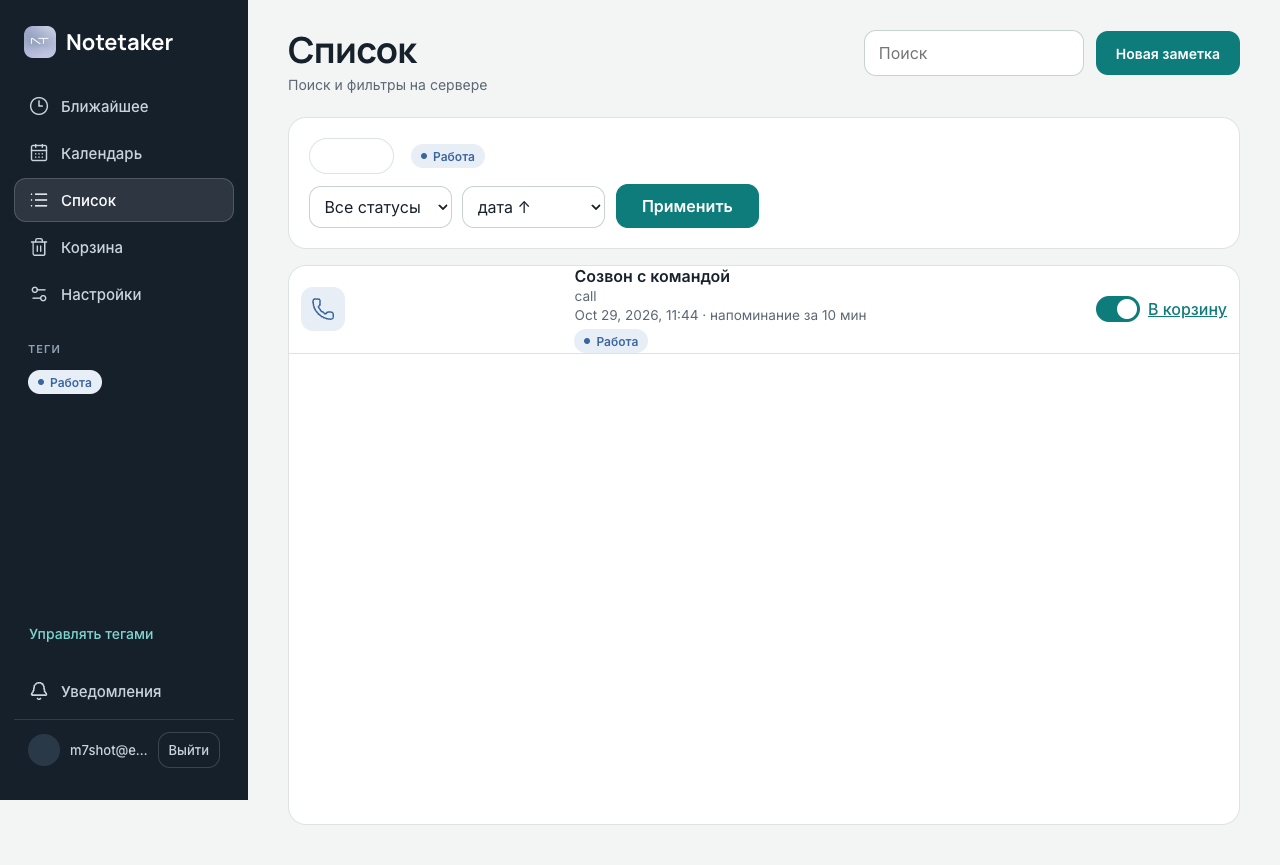
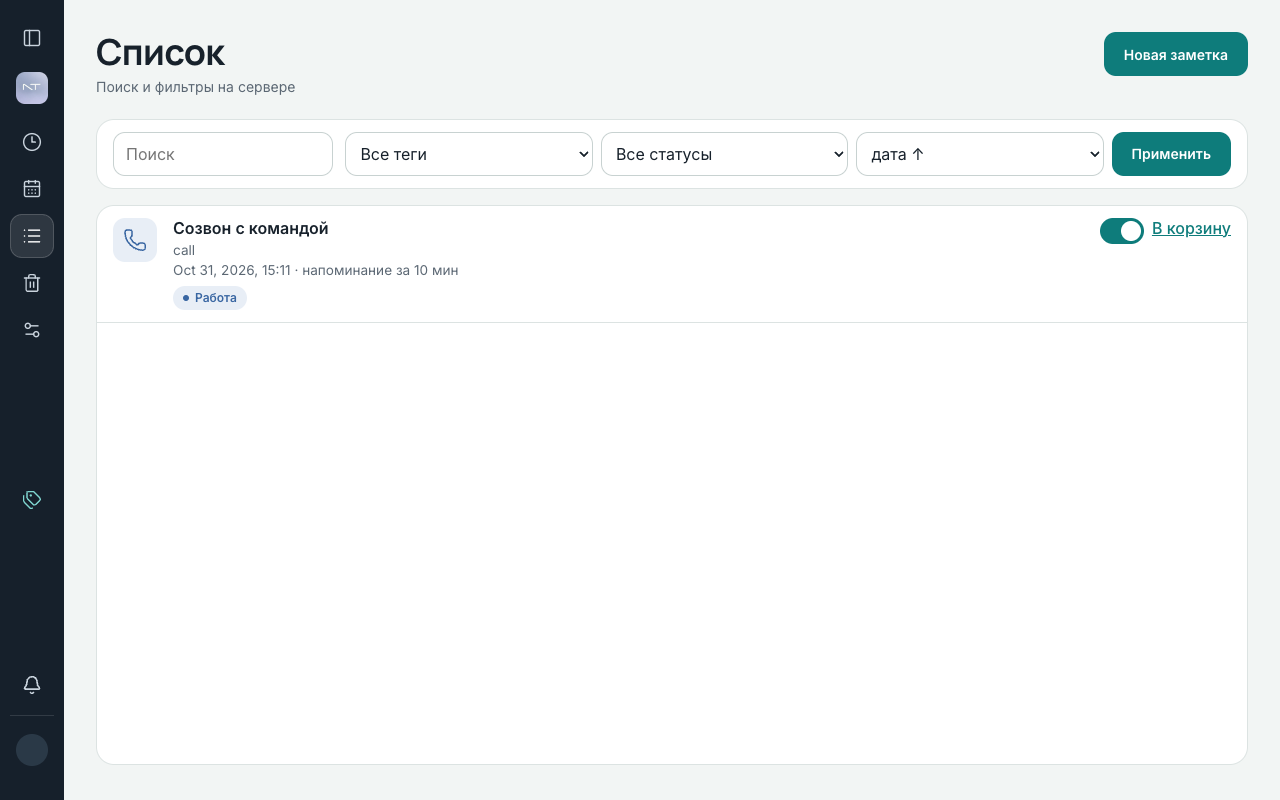
M8.2: FRONTEND §5–§6, e2e layout, скрины 1440/1024 и STATUS

diff --git a/web/e2e/m8_2_layout.spec.ts b/web/e2e/m8_2_layout.spec.ts
@@ -1,0 +1,158 @@
+import { expect, test } from "@playwright/test";
+import { apiCreateNote, registerUi, uniqueLogin } from "./helpers";
+import path from "node:path";
+import { fileURLToPath } from "node:url";
+
+const ROOT = path.resolve(path.dirname(fileURLToPath(import.meta.url)), "../..");
+const OUT = path.join(ROOT, "docs/design/screens");
+
+test("e2e_create_is_page", async ({ page }) => {
+  const login = uniqueLogin("m82create");
+  await registerUi(page, login);
+  await page.setViewportSize({ width: 1440, height: 900 });
+  await page.goto("/list");
+  await page.getByTestId("new-note").click();
+  await expect(page).toHaveURL(/\/notes\/new$/);
+  await expect(page.getByTestId("note-form")).toBeVisible();
+  await expect(page.getByTestId("note-body")).toBeVisible();
+  await expect(page.getByLabel("Текст")).toBeVisible();
+  await expect(page.getByRole("dialog")).toHaveCount(0);
+});
+
+test("e2e_reminders_in_one_row", async ({ page }) => {
+  const login = uniqueLogin("m82rem");
+  await registerUi(page, login);
+  await page.setViewportSize({ width: 1440, height: 900 });
+  await page.goto("/notes/new");
+  await expect(page.getByTestId("reminder-offsets-row")).toBeVisible();
+  const boxes = await Promise.all(
+    [10, 60, 1440].map(async (m) => {
+      const box = await page.getByTestId(`reminder-offset-${m}`).boundingBox();
+      expect(box).toBeTruthy();
+      return box!;
+    }),
+  );
+  const ys = boxes.map((b) => b.y);
+  expect(Math.max(...ys) - Math.min(...ys)).toBeLessThanOrEqual(2);
+});
+
+test("e2e_sidebar_collapse", async ({ page }) => {
+  const login = uniqueLogin("m82side");
+  await registerUi(page, login);
+  await page.setViewportSize({ width: 1440, height: 900 });
+  await page.goto("/calendar");
+
+  // Default collapsed → 64px.
+  const sidebar = page.getByTestId("app-sidebar");
+  await expect(sidebar).toHaveAttribute("data-collapsed", "1");
+  await expect
+    .poll(async () => (await sidebar.boundingBox())?.width ?? 0, { timeout: 2000 })
+    .toBeLessThanOrEqual(66);
+
+  await page.getByTestId("sidebar-toggle").click();
+  await expect(sidebar).toHaveAttribute("data-collapsed", "0");
+  await expect
+    .poll(async () => (await sidebar.boundingBox())?.width ?? 0, { timeout: 2000 })
+    .toBeGreaterThanOrEqual(240);
+
+  await page.getByTestId("sidebar-toggle").click();
+  await expect(sidebar).toHaveAttribute("data-collapsed", "1");
+  await expect
+    .poll(async () => (await sidebar.boundingBox())?.width ?? 0, { timeout: 2000 })
+    .toBeLessThanOrEqual(66);
+
+  await page.reload();
+  await expect(page.getByTestId("app-sidebar")).toHaveAttribute("data-collapsed", "1");
+  await expect
+    .poll(async () => (await page.getByTestId("app-sidebar").boundingBox())?.width ?? 0)
+    .toBeLessThanOrEqual(66);
+});
+
+test("e2e_toolbar_one_row", async ({ page }) => {
+  const login = uniqueLogin("m82tb");
+  await registerUi(page, login);
+  for (let i = 0; i < 3; i++) {
+    await page.request.post("/api/tags", {
+      data: { name: `TB${i}_${Date.now()}`, color: "#3E6FB0" },
+    });
+  }
+  await page.setViewportSize({ width: 1440, height: 900 });
+  await page.goto("/list");
+  await expect(page.getByTestId("list-toolbar")).toBeVisible();
+  await expect(page.getByTestId("list-tag-filter").locator('option[value=""]')).toHaveText(
+    "Все теги",
+  );
+
+  const search = await page.getByTestId("list-search").boundingBox();
+  const tags = await page.getByTestId("list-tag-filter").boundingBox();
+  const status = await page.getByTestId("list-status-filter").boundingBox();
+  const sort = await page.getByTestId("list-sort-filter").boundingBox();
+  expect(search && tags && status && sort).toBeTruthy();
+  const tops = [search!.y, tags!.y, status!.y, sort!.y];
+  expect(Math.max(...tops) - Math.min(...tops)).toBeLessThanOrEqual(2);
+});
+
+test("e2e_list_rows_aligned", async ({ page }) => {
+  const login = uniqueLogin("m82align");
+  await registerUi(page, login);
+  const now = Date.now();
+  for (let i = 0; i < 4; i++) {
+    await apiCreateNote(page.request, {
+      title: `Align ${i} ${now}`,
+      body: `body line ${i}`,
+      starts_at: new Date(Date.now() + (i + 1) * 3600_000)
+        .toISOString()
+        .replace(/\.\d{3}Z$/, "Z"),
+      reminder_offsets: i % 2 === 0 ? [10] : [],
+      tag_ids: [],
+    });
+  }
+  await page.setViewportSize({ width: 1440, height: 900 });
+  await page.goto("/list");
+  const titles = page.getByTestId("list-note-title");
+  await expect(titles.first()).toBeVisible();
+  const count = await titles.count();
+  expect(count).toBeGreaterThanOrEqual(2);
+  const xs: number[] = [];
+  for (let i = 0; i < count; i++) {
+    const box = await titles.nth(i).boundingBox();
+    expect(box).toBeTruthy();
+    xs.push(box!.x);
+  }
+  expect(Math.max(...xs) - Math.min(...xs)).toBeLessThanOrEqual(1);
+});
+
+test("m8_2_screenshots_1440_and_1024", async ({ page }) => {
+  const login = uniqueLogin("m82shot");
+  await registerUi(page, login);
+  await page.request.patch("/api/me", {
+    data: { timezone: "UTC", email: "m82shot@example.com" },
+  });
+  const tagRes = await page.request.post("/api/tags", {
+    data: { name: "Работа", color: "#3E6FB0" },
+  });
+  const tag = await tagRes.json();
+  await apiCreateNote(page.request, {
+    title: "Созвон с командой",
+    body: "длинный текст заметки для списка",
+    starts_at: new Date(Date.now() + 3600_000).toISOString().replace(/\.\d{3}Z$/, "Z"),
+    reminder_offsets: [10],
+    tag_ids: [tag.id],
+  });
+
+  for (const width of [1440, 1024] as const) {
+    await page.setViewportSize({ width, height: 900 });
+    await page.goto("/list");
+    await page.waitForTimeout(400);
+    await page.screenshot({
+      path: path.join(OUT, `list-${width}.png`),
+      fullPage: true,
+    });
+    await page.goto("/notes/new");
+    await page.waitForTimeout(300);
+    await page.screenshot({
+      path: path.join(OUT, `note-new-${width}.png`),
+      fullPage: true,
+    });
+  }
+});

diff --git a/web/e2e/m7_fix.spec.ts b/web/e2e/m7_fix.spec.ts
@@ -66,8 +66,17 @@ test("e2e_sidebar_fits_viewport", async ({ page }) => {
   await page.goto("/calendar");
   const sidebar = page.getByTestId("app-sidebar");
   await expect(sidebar).toBeVisible();
+  // Expand for footer/email layout check (default is collapsed 64px).
+  if ((await sidebar.getAttribute("data-collapsed")) === "1") {
+    await page.getByTestId("sidebar-toggle").click();
+  }
+  await expect(sidebar).toHaveAttribute("data-collapsed", "0");
 
-  const noHScroll = await sidebar.evaluate((el) => el.scrollWidth <= el.clientWidth + 1);
+  // Allow 2px subpixel/scrollbar slack after expand animation.
+  await expect
+    .poll(async () => (await sidebar.boundingBox())?.width ?? 0, { timeout: 2000 })
+    .toBeGreaterThan(200);
+  const noHScroll = await sidebar.evaluate((el) => el.scrollWidth <= el.clientWidth + 2);
   expect(noHScroll).toBe(true);
 
   const user = page.getByTestId("side-user");
@@ -104,6 +113,9 @@ test("e2e_notifications_popover", async ({ page }) => {
 
   await page.setViewportSize({ width: 1280, height: 800 });
   await page.goto("/upcoming");
+  const sidebar = page.getByTestId("app-sidebar");
+  const sideW =
+    (await sidebar.getAttribute("data-collapsed")) === "1" ? 64 : 248;
   await page.getByTestId("notif-bell").click();
   const inbox = page.getByTestId("notif-inbox");
   await expect(inbox).toBeVisible();
@@ -115,8 +127,8 @@ test("e2e_notifications_popover", async ({ page }) => {
   const markBox = await markAll.boundingBox();
   expect(inboxBox).toBeTruthy();
   expect(markBox).toBeTruthy();
-  // Popover sits in main (to the right of 248px sidebar), not clipped.
-  expect(inboxBox!.x).toBeGreaterThanOrEqual(248);
+  // Popover sits in main (to the right of sidebar), not clipped.
+  expect(inboxBox!.x).toBeGreaterThanOrEqual(sideW);
   expect(markBox!.x + markBox!.width).toBeLessThanOrEqual(inboxBox!.x + inboxBox!.width + 1);
   expect(markBox!.y).toBeGreaterThanOrEqual(inboxBox!.y - 1);
 

diff --git a/web/e2e/reminder_ui.spec.ts b/web/e2e/reminder_ui.spec.ts
@@ -69,6 +69,7 @@ test("e2e_reminder_from_ui_toast_and_mail", async ({ browser }) => {
   try {
     await a.goto("/list");
     await a.getByTestId("new-note").click();
+    await expect(a).toHaveURL(/\/notes\/new/);
     await expect(a.getByTestId("note-form")).toBeVisible();
     await expect(a.getByTestId("reminder-offsets")).toBeVisible();
 
@@ -77,12 +78,16 @@ test("e2e_reminder_from_ui_toast_and_mail", async ({ browser }) => {
     await a.getByTestId("note-starts").fill(localDatetimeLocal(starts));
     await a.getByTestId("reminder-offset-10").check();
     await a.getByTestId("note-form").getByRole("button", { name: "Сохранить" }).click();
+    await expect(a).toHaveURL(/\/notes\/[^/]+$/);
+    await a.goto("/list");
     await expect(a.getByText(title)).toBeVisible();
 
-    // Confirm offsets persisted (side panel / edit form).
+    // Confirm offsets persisted on note page.
     await a.getByText(title).click();
+    await expect(a).toHaveURL(/\/notes\//);
     await expect(a.getByTestId("reminder-offset-10")).toBeChecked();
     await a.getByRole("button", { name: "Отмена" }).click();
+    await expect(a).toHaveURL(/\/list/);
 
     const list = await a.request.get("/api/notes");
     expect(list.ok()).toBeTruthy();

diff --git a/web/e2e/timezone.spec.ts b/web/e2e/timezone.spec.ts
@@ -61,14 +61,14 @@ test("e2e_register_uses_browser_timezone", async ({ page }) => {
 
   await page.goto("/list");
   await page.getByTestId("new-note").click();
+  await expect(page).toHaveURL(/\/notes\/new/);
   await expect(page.getByTestId("note-tz-hint")).toContainText(browserTz);
 });
 
 test("e2e_past_reminder_shows_warning", async ({ page }) => {
   const login = uniqueLogin("tzpast");
   await registerUi(page, login);
-  await page.goto("/list");
-  await page.getByTestId("new-note").click();
+  await page.goto("/notes/new");
 
   // Event in 5 minutes + «за час» → fire_at already in the past.
   const starts = new Date(Date.now() + 5 * 60 * 1000);

diff --git a/docs/FRONTEND.md b/docs/FRONTEND.md
@@ -26,6 +26,9 @@
 | `--accent-soft` | `#E8F5F3` | фон блока «Следующее напоминание» |
 | `--danger` / `--danger-soft` | `#B4402F` / `#FBEFEA` | удаление, «просрочено», зона корзины |
 | радиусы | 12 / 18 / 22 px | элементы / карточки / крупные блоки |
+| `--space-1`…`--space-6` | 4 / 8 / 12 / 16 / 24 / 32 px | единственная шкала отступов |
+| `--sidebar-collapsed-width` | 64px | свёрнутая левая панель |
+| `--note-rail-width` / `--note-text-max` | 320px / 760px | колонка списка и ширина текста на странице заметки |
 
 Шрифты: заголовки Manrope 700–800, текст Inter 400–600. Подключать пакетами npm (`@fontsource/manrope`,
 `@fontsource/inter`), не через CDN: проект работает без сети. Если пакета с нужным начертанием и кириллицей нет,
@@ -51,17 +54,24 @@
 - Генерация картинок моделью в M7 не входит.
 
 ## 5. Каркас
-- Левая панель 248px, фон `--sidebar`, высота экрана. Структура сверху вниз: логотип-слово «Notetaker»; пункты Ближайшее, Календарь,
-  Список, Корзина (со счётчиком), Настройки; блок «Теги» (пилюля и счётчик, клик открывает «Список» с фильтром; ссылка «Управлять тегами»);
-  внизу закреплены «Уведомления» (колокольчик и счётчик) и строка пользователя: адрес почты с обрезкой по ширине и кнопка «Выйти».
-- Логотип рядом с «Notetaker»: файл `web/src/assets/logo-nt.jpg`, 32×32px, скругление 9px, `object-fit: cover`, `alt=""` (левая панель и экран входа).
+- Левая панель: развёрнутая ширина 248px, свёрнутая 64px (только иконки с `aria-label` и `title`), фон `--sidebar`, высота экрана.
+  По умолчанию свёрнута; состояние в `localStorage` (`notetaker.sidebarCollapsed`). Анимация ширины 150 мс, отключается при
+  `prefers-reduced-motion`. Кнопка-переключатель вверху панели (функционал, без декора).
+- Развёрнутая структура сверху вниз: логотип-слово «Notetaker»; пункты Ближайшее, Календарь, Список, Корзина (со счётчиком),
+  Настройки; блок «Теги» (пилюля, клик открывает «Список» с фильтром; ссылка «Управлять тегами»); внизу «Уведомления»
+  (колокольчик и счётчик) и строка пользователя: почта с обрезкой и кнопка «Выйти».
+- Свёрнутая: блок тегов скрыт; внизу колокольчик и аватар; «Выйти» — в меню аватара.
+- Логотип рядом с «Notetaker»: файл `web/src/assets/logo-nt.jpg`, 32×32px, скругление 9px, `object-fit: cover`, `alt=""`
+  (левая панель и экран входа).
 - Жёсткие правила вёрстки: панель не прокручивается по горизонтали (`overflow-x: hidden`, `min-width: 0` у вложенных блоков);
-  при нехватке высоты прокручивается только блок тегов; нижняя часть («Уведомления», «Выйти») всегда видна целиком.
+  при нехватке высоты прокручивается только блок тегов; нижняя часть всегда видна целиком.
 - Список уведомлений НЕ живёт внутри левой панели. Нажатие на «Уведомления» открывает всплывающую панель шириной 360px
   у левого края основной области, поверх контента: заголовок, кнопка «Прочитано», строки (иллюстрация, название, подпись, пилюля тега).
   Закрывается по Esc и клику вне панели. Заголовок и кнопка «Прочитано» в панели не обрезаются.
 - Активный пункт панели: фон `rgba(255,255,255,.10)`, рамка `rgba(255,255,255,.16)`, текст белый.
-- Сверху основной области: h1 с подписью, поиск 220px, акцентная кнопка действия.
+- Отступы только из шкалы токенов 4/8/12/16/24/32 (`--space-1`…`--space-6`); радиусы только из `--radius-*`.
+  Блоки основной области выровнены по общей левой линии контента.
+- Сверху основной области (кроме страницы заметки): h1 с подписью, акцентная кнопка действия.
 - Экран «Теги» (CRUD, цвет): строки с цветным квадратом 36px, пилюлей, числом заметок, кнопками «Переименовать» и «Удалить»;
   справа карточка «Новый тег» с палитрой.
 
@@ -74,8 +84,17 @@
 **Календарь.** Неделя, месяц, день. Событие: заливка цвета тега, полоска 4px слева, иллюстрация 34px, название, время, пилюля тега.
 Сегодняшняя дата в акцентном круге. Месячный вид показывает тег так же.
 
-**Список.** Строка: иллюстрация 44px, название и первая строка текста, пилюли тегов, дата и время, интервал напоминания, переключатель активности.
-Сверху панель фильтров: теги-пилюли, статус, сортировка. Виртуальная прокрутка и серверный поиск остаются.
+**Список.** Строка — CSS grid `48px | 1fr | auto` (иконка | содержимое | действия); высота по содержимому, без центрирования и auto-margin.
+Содержимое на одной вертикали: название, одна строка текста с обрезкой, дата и интервал напоминания, ниже пилюли тегов.
+Панель инструментов: поиск, select тегов (подпись «Все теги»), статус, сортировка, «Применить». С ширины 1200px — одна строка;
+при нехватке места переносится целая группа фильтров, а не один элемент. Виртуальная прокрутка и серверный поиск остаются.
+
+**Страница заметки** (`/notes/new`, `/notes/:id`). Не модалка: полноэкранный редактор. При открытии левая панель принудительно
+64px; между ней и редактором — колонка списка заметок 320px (поиск, компактные строки, выбранная выделена); редактор занимает остаток,
+текст ограничен `max-width: 760px` и выровнен влево. Поля: название, текст (многострочный, ≥12 строк, растёт по содержимому), время,
+повтор, напоминания (чекбоксы «за 10 минут» / «за час» / «за день» в один ряд; предупреждение «уже не сработает» — отдельной строкой
+под рядом), теги. Кнопки «Сохранить» и «Отмена» в закреплённой шапке. Слот под вложения (M9) в разметке без реализации.
+Боковая панель календаря не затрагивается. На телефоне (≤640px) страница на весь экран, колонка списка скрыта.
 
 **Корзина.** Строка с иллюстрацией, пилюлей, под названием «исчезнет через N дн.» с полоской из 30 дней, кнопки «Восстановить» и «Удалить навсегда».
 
@@ -108,7 +127,7 @@
 ## 9. Телефон (до 640px)
 - Левая панель превращается в нижнюю панель вкладок (Ближайшее, Календарь, Список, Корзина, Ещё).
 - «Ближайшее»: приветствие, карточка следующего напоминания (иллюстрация 64px качается при уведомлении), ниже остальные.
-- «Новая заметка» открывает нижний лист: название, время, чипы «за 10 мин / за час / за день», теги-пилюли, кнопка «Добавить».
+- «Новая заметка» открывает нижний лист: название, текст (≥12 строк), время, чипы «за 10 мин / за час / за день», теги-пилюли, кнопка «Добавить».
 - Цели нажатия не меньше 44px. Web Push не входит.
 
 ## 10. Доступность
@@ -121,9 +140,10 @@
 - Юнит: `tagColors_contrast_ge_45`, `tagColors_tint_is_light`, `pickIllustration_keywords_ru_en`, `pickIllustration_falls_back_to_tag_then_default`.
 - e2e: `e2e_tags_visible_everywhere`, `e2e_week_many_notes_in_slot`, `e2e_drag_to_trash`, `e2e_mobile_quick_add`,
   `e2e_calendar_slot_matches_label_timezone` (подпись 11:41 и строка сетки совпадают в поясе Asia/Bishkek),
-  `e2e_sidebar_fits_viewport` (нижняя часть панели и «Выйти» целиком в экране 1280×720, нет горизонтальной прокрутки),
-  `e2e_notifications_popover` (панель открывается поверх контента и не обрезается).
-- Скриншоты экранов (1280 и 390) в `docs/design/screens/`.
+  `e2e_sidebar_fits_viewport` (нижняя часть панели целиком в экране 1280×720, нет горизонтальной прокрутки),
+  `e2e_notifications_popover` (панель открывается поверх контента и не обрезается),
+  `e2e_list_rows_aligned`, `e2e_toolbar_one_row`, `e2e_create_is_page`, `e2e_reminders_in_one_row`, `e2e_sidebar_collapse`.
+- Скриншоты экранов (1280 и 390; плюс list 1440/1024) в `docs/design/screens/`.
 
 ## 12. Вне объёма
 Web Push; генерация картинок моделью; новые поля БД; смена бэкенда.

diff --git a/STATUS.md b/STATUS.md
@@ -1,6 +1,6 @@
 # STATUS
 
-Обновляется в конце каждого этапа. Последнее обновление: 2026-10-29 15:28 +06.
+Обновляется в конце каждого этапа. Последнее обновление: 2026-10-31 20:11 +06.
 
 ## Этапы
 
@@ -15,6 +15,7 @@
 | M6 Нагрузка и verify | готов | A1–A3 (stale sending, Date, e2e hooks); T17 `perf_list_10k` / `perf_search_10k` / `e2e_scroll_10k`; `make seed`; `make verify` → T1–T21 все закрыто; отчёт `reports/verify-20261024-175604.md` |
 | M7 Новый интерфейс | готов | токены/шрифты/сайдбар; TagPill/`tagColors`/`NoteIllustration`/`pickIllustration`; календарь (slotEventOverlap, теги, trash-zone+Отменить); экраны Upcoming/List/Tags/Trash/Settings; mobile ≤640; bell+WebAudio; `make test` 46; `make e2e` 23; скрины `docs/design/screens/` |
 | M7.fix Правки после живой проверки | готов | термин «тег»; тёмная панель/бирюза/Manrope; сайдбар pin+popover; luxon timeZone (D-049); e2e slot/sidebar/popover; `make test` 46; `make e2e` 26; скрины обновлены |
+| M8.2 Каркас списка и страница заметки | готов | тулбар select тегов; строки grid; `/notes/new|:id`; сайдбар 64px; e2e layout; `make test` 46; Playwright 34; скрины 1440/1024 |
 
 ## Работает
 - `docker compose up --build` поднимает postgres, mailhog, api, worker, web.
@@ -28,7 +29,7 @@
 - `GET /api/calendar?from=&to=` — вхождения `{occurrence_start, note}` для одиночных (`rec_freq IS NULL`), не в корзине (D-017).
 - `GET /api/upcoming` — бакеты `today` / `week` / `past` по `Clock` + TZ пользователя; past только `active` (D-018).
 - Web: Календарь (FullCalendar 6: месяц/неделя/день, клик → боковая панель, DnD → PATCH с `version` и сохранением wall-time), «Ближайшее» (три секции), Список, Теги, Корзина, Настройки; время через `Intl` + `user.timezone`.
-- Тесты: `make test` → 46 passed на реальном Postgres (testcontainers); `make e2e` → 14 passed (вкл. `e2e_scroll_10k`).
+- Тесты: `make test` → 46 passed на реальном Postgres (testcontainers); Playwright e2e → 34 passed (вкл. M8.2 layout).
 - Напоминания (singles): материализация при create/patch (`fire_at = starts_at − offset`, без `fire_at <= now`); rebuild pending при смене времени/offsets; `sent` не трогаем (D-020).
 - Воркер `tick(now)`: claim `FOR UPDATE SKIP LOCKED` (лимит 100); inactive/deleted → `skipped`; effective occurrence `< now` → `missed` (D-007); иначе `notifications` + `email_outbox` + `sent` + `pg_notify` на канал `u_<user_id>` (`notification.new`, D-023).
 - Outbox: SMTP (`smtplib`) вне транзакции; фиксированный `Message-ID = <{outbox_id}@notetaker.local>` (D-021); заголовок `Date` из Clock/UTC (D-033); claim → `sending` + `sending_at` (D-031); протухший `sending` > `OUTBOX_SENDING_TIMEOUT_MINUTES` (дефолт 2) → `pending` + attempts (D-032).
@@ -178,7 +179,21 @@
 - Заметка `starts_at=2026-10-29T05:41:00Z` при `Asia/Bishkek`: подпись **11:41**, позиция в полосе слота **11:00–12:00** (не 05:00) — D-049 / luxon.
 - Скрины обновлены: `docs/design/screens/*-{1280,390}.png`.
 
+### Смоки M8.2 (2026-10-31)
+**Автоматически:**
+- `make test` → 46 passed.
+- Playwright → 34 passed (`e2e_list_rows_aligned`, `e2e_toolbar_one_row`, `e2e_create_is_page`, `e2e_reminders_in_one_row`, `e2e_sidebar_collapse` + прежние).
+- Скрины: `docs/design/screens/list-{1440,1024}.png`, `note-new-{1440,1024}.png` (+ обновлены 1280/390).
+
+**Работает (M8.2):**
+- Список: тулбар в одну строку (≥1200px) — поиск, select «Все теги», статус, сортировка, «Применить»; строки CSS grid `48px|1fr|auto`.
+- Создание/правка заметки — страницы `/notes/new` и `/notes/:id` (не dialog); поле «Текст» ≥12 строк; напоминания в один ряд; слот вложений без реализации.
+- На странице заметки: сайдбар 64px + колонка списка 320px + редактор (текст max 760px).
+- Сайдбар сворачивается (default 64px, `localStorage`, 150 мс / reduced-motion); «Выйти» в меню аватара при свёртке.
+- Боковая панель календаря без изменений по поведению маршрутов.
+
 ## Следующий заход
+- M9: вложения в слоте на странице заметки.
 - Web Push / Service Worker.
 - Интервал повтора и сложные правила («каждый второй вторник»).
 - ICS-экспорт/импорт и подписка на календарь.
